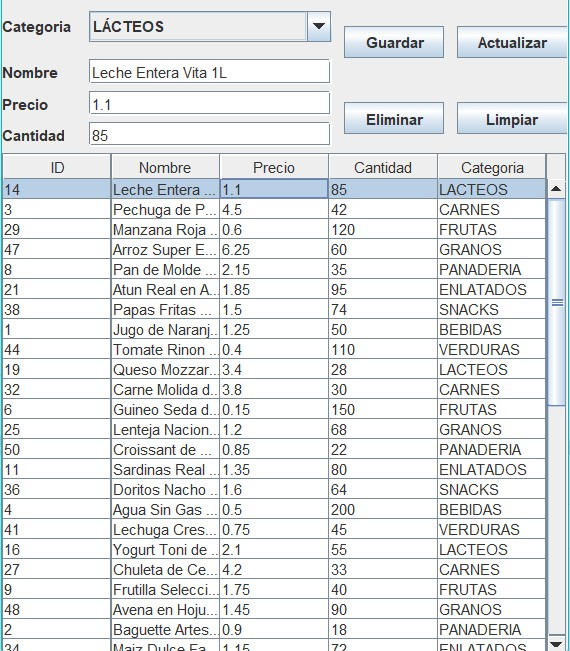
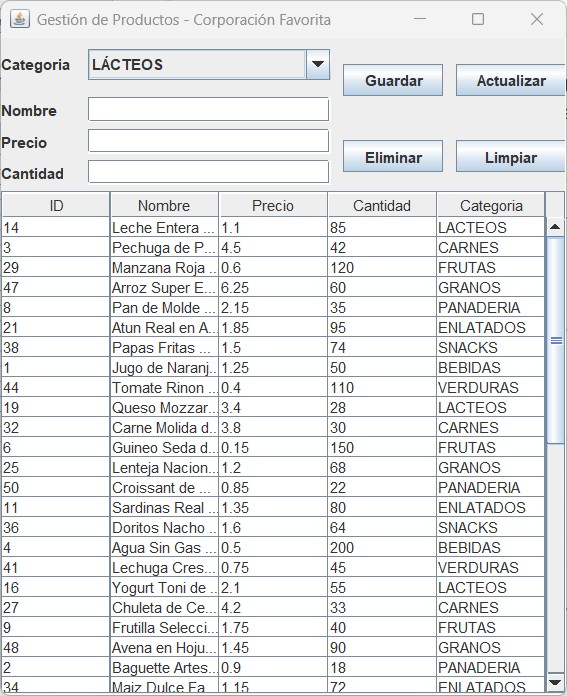
fix: corrige advertencias y actualiza documentacion
Usa getters y setters de Lombok, tipa el JComboBox, corrige enlaces de imagen del README y conserva la dependencia Lombok.

diff --git a/src/main/java/U1/gui/base/VentanaProductosUI.java b/src/main/java/U1/gui/base/VentanaProductosUI.java
@@ -9,7 +9,7 @@ public class VentanaProductosUI extends JFrame {
     protected JButton btnGuardar;
     protected JButton btnActualizar;
     protected JTextField txtCantidad;
-    protected JComboBox Categorias;
+    protected JComboBox<String> Categorias;
     protected JTable Productos;
     protected JTextField txtNombre;
     protected JButton btnEliminar;
@@ -45,7 +45,7 @@ public class VentanaProductosUI extends JFrame {
         final JLabel label3 = new JLabel();
         label3.setText("Categoria");
         PanelPrincipal.add(label3, new com.intellij.uiDesigner.core.GridConstraints(0, 0, 1, 1, com.intellij.uiDesigner.core.GridConstraints.ANCHOR_WEST, com.intellij.uiDesigner.core.GridConstraints.FILL_NONE, com.intellij.uiDesigner.core.GridConstraints.SIZEPOLICY_FIXED, com.intellij.uiDesigner.core.GridConstraints.SIZEPOLICY_FIXED, null, new Dimension(60, 43), null, 0, false));
-        Categorias = new JComboBox();
+        Categorias = new JComboBox<>();
         PanelPrincipal.add(Categorias, new com.intellij.uiDesigner.core.GridConstraints(0, 1, 1, 1, com.intellij.uiDesigner.core.GridConstraints.ANCHOR_WEST, com.intellij.uiDesigner.core.GridConstraints.FILL_HORIZONTAL, com.intellij.uiDesigner.core.GridConstraints.SIZEPOLICY_CAN_GROW, com.intellij.uiDesigner.core.GridConstraints.SIZEPOLICY_FIXED, null, null, null, 0, false));
         final JScrollPane scrollPane1 = new JScrollPane();
         PanelPrincipal.add(scrollPane1, new com.intellij.uiDesigner.core.GridConstraints(4, 0, 1, 4, com.intellij.uiDesigner.core.GridConstraints.ANCHOR_CENTER, com.intellij.uiDesigner.core.GridConstraints.FILL_BOTH, com.intellij.uiDesigner.core.GridConstraints.SIZEPOLICY_CAN_SHRINK | com.intellij.uiDesigner.core.GridConstraints.SIZEPOLICY_WANT_GROW, com.intellij.uiDesigner.core.GridConstraints.SIZEPOLICY_CAN_SHRINK | com.intellij.uiDesigner.core.GridConstraints.SIZEPOLICY_WANT_GROW, null, null, null, 0, false));

diff --git a/src/main/java/U1/entity/Productos.java b/src/main/java/U1/entity/Productos.java
@@ -1,10 +1,14 @@
 package U1.entity;
 
 import jakarta.persistence.*;
+import lombok.Getter;
+import lombok.Setter;
 
 // Entidad JPA que representa los registros de la tabla productos.
 @Entity
 @Table(name = "productos")
+@Getter
+@Setter
 public class Productos {
 
     // Identificador generado automáticamente por PostgreSQL.
@@ -38,46 +42,6 @@ public class Productos {
         this.nombre = nombre;
         this.precio = precio;
         this.cantidad = cantidad;
-        this.categoria = categoria;
-    }
-
-    public int getId() {
-        return id;
-    }
-
-    public void setId(int id) {
-        this.id = id;
-    }
-
-    public String getNombre() {
-        return nombre;
-    }
-
-    public void setNombre(String nombre) {
-        this.nombre = nombre;
-    }
-
-    public double getPrecio() {
-        return precio;
-    }
-
-    public void setPrecio(double precio) {
-        this.precio = precio;
-    }
-
-    public int getCantidad() {
-        return cantidad;
-    }
-
-    public void setCantidad(int cantidad) {
-        this.cantidad = cantidad;
-    }
-
-    public String getCategoria() {
-        return categoria;
-    }
-
-    public void setCategoria(String categoria) {
         this.categoria = categoria;
     }
 

diff --git a/src/main/java/U1/gui/VentanaProductos.java b/src/main/java/U1/gui/VentanaProductos.java
@@ -78,7 +78,7 @@ public class VentanaProductos extends VentanaProductosUI {
         String nombre = txtNombre.getText();
         double precio = Double.parseDouble(txtPrecio.getText());
         int cantidad = Integer.parseInt(txtCantidad.getText());
-        String categoria = Categorias.getSelectedItem().toString();
+        String categoria = (String) Categorias.getSelectedItem();
         Productos nuevo = new Productos(0, nombre, precio, cantidad, categoria);
         em.getTransaction().begin();
         em.persist(nuevo);
@@ -99,7 +99,7 @@ public class VentanaProductos extends VentanaProductosUI {
         String nuevoNombre = txtNombre.getText();
         double nuevoprecio = Double.parseDouble(txtPrecio.getText());
         int nuevacantidad = Integer.parseInt(txtCantidad.getText());
-        String nuevaCategoria = Categorias.getSelectedItem().toString();
+        String nuevaCategoria = (String) Categorias.getSelectedItem();
 
         em.getTransaction().begin();
         Productos actualizar = em.find(Productos.class, id);

diff --git a/README.md b/README.md
@@ -47,7 +47,7 @@ src/main/
      │   └── Productos.sql               # Script SQL DDL para creación de tabla en PostgreSQL
      ├── images/
      │   ├── Diagrama de Clase -- Corporacion Favorita.jpg  # Captura visual del diagrama de clases UML
-     │   └── Aplicacion en Ejecución .jpg                   # Captura de la aplicación en ejecución
+     │   └── Aplicacion en Ejecución.jpg                    # Captura de la aplicación en ejecución
      └── uml/
          └── Empresa_ Corporacion Favorita.vpp  # Diagrama de clases UML en Visual Paradigm
 ```
@@ -56,9 +56,7 @@ src/main/
 
 A continuación se muestra el modelo de clases diseñado en Visual Paradigm para la entidad `Productos` de la Empresa Corporación Favorita:
 
-<p align="center">
-  <img src="src/main/resources/images/Diagrama%20de%20Clase%20--%20Corporacion%20Favorita.jpg" alt="Diagrama de Clases UML - Corporación Favorita" width="300"/>
-</p>
+![Diagrama de Clases UML - Corporación Favorita](src/main/resources/images/Diagrama%20de%20Clase%20--%20Corporacion%20Favorita.jpg)
 
 * **Entidad / Clase:** `Productos`
 * **Atributos:**
@@ -77,9 +75,7 @@ A continuación se muestra el modelo de clases diseñado en Visual Paradigm para
 
 La siguiente imagen muestra la aplicación gráfica en ejecución:
 
-<p align="center">
-  <img src="src/main/resources/images/Aplicacion%20en%20Ejecuci%C3%B3n%20.jpg" alt="Aplicación de gestión de productos en ejecución" width="700"/>
-</p>
+![Aplicación de gestión de productos en ejecución](src/main/resources/images/Aplicacion%20en%20Ejecuci%C3%B3n.jpg)
 
 ## 🚀 Instrucciones de Uso
 
